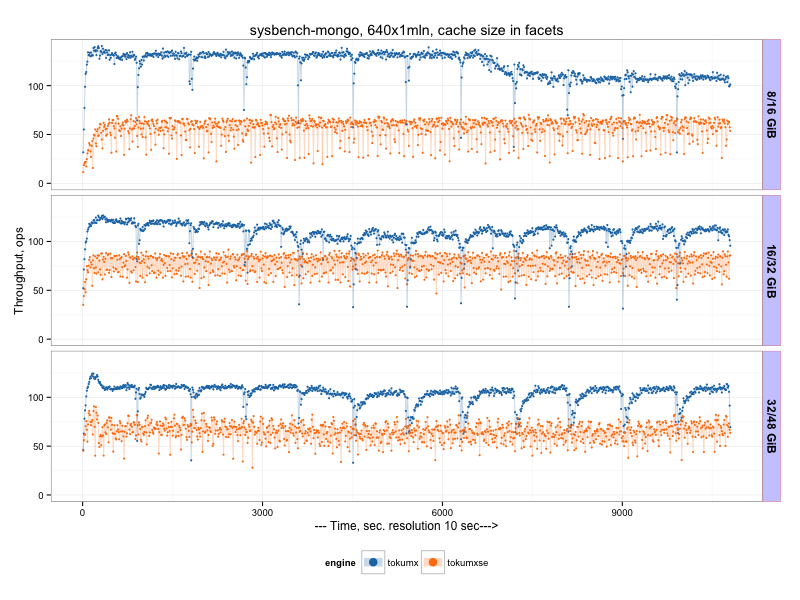
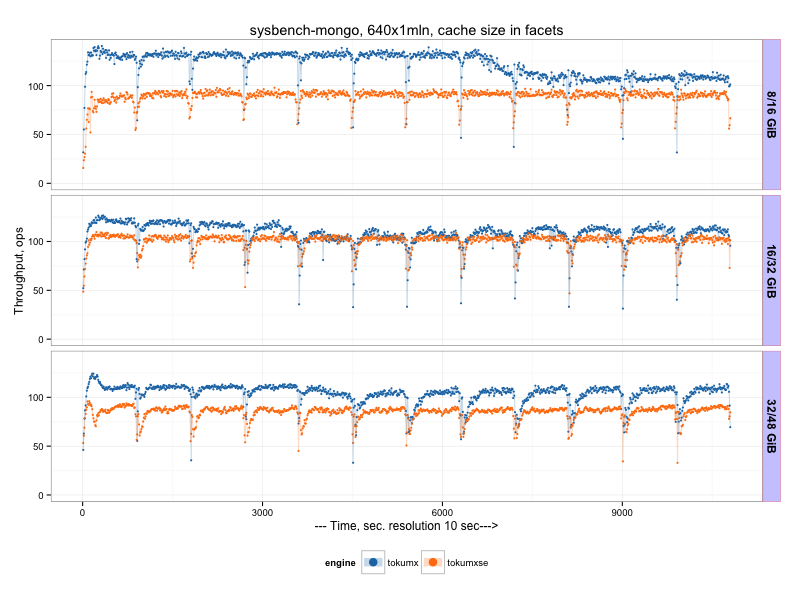
updated res with checkpoint 900

Changed region(s): [[0.0938, 0.15, 0.9375, 0.3], [0.0938, 0.39, 0.9375, 0.48], [0.0938, 0.66, 0.9375, 0.75]]

diff --git a/mongodb-sysbench-hppro2.rst b/mongodb-sysbench-hppro2.rst
@@ -63,6 +63,29 @@ size   mmap wiredTiger
 32/48  35   67
 =====  ==== ==========
 
+WiredTiger checkpoint period
+============================
+
+On previous chart we see a lot of variance in wiredTiger results. My guess was it is related to checkpointing activity,
+which by default happens every 60. It took some research to find a way to change a checkpoint period for wiredTiger,
+apparenly the variable ``--syncdelay`` is responsible for that.
+So there is results with longer (900sec) checkpoint interval for wiredTiger
+
+.. image:: img/wt-ckp900.png
+
+Or average results (throughput, operations per second) during 2nd hour:
+
+=====  ==== ========== ==============================
+size   mmap wiredTiger wiredTiger (checkpoint 900sec)
+=====  ==== ========== ==============================
+8/16   26   53         58
+16/32  31   61         67
+32/48  35   67         72
+=====  ==== ========== ==============================
+
+So we can make a conclusion that increasing checkpoint interval makes some improvement in the variance, and the overall result is better (though dips in thoughput is worse during checkpoint activity).
+I will use the last result (wich checkpoint period 900) in the following tables.
+
 RocksDB vs WiredTiger
 =====================
 
@@ -79,9 +102,9 @@ Or average results (throughput, operations per second) during 2nd hour:
 =====  ==== ========== ========
 size   mmap wiredTiger RocksDB
 =====  ==== ========== ========
-8/16   26   53         81
-16/32  31   61         91
-32/48  35   67         104 
+8/16   26   58         81
+16/32  31   67         91
+32/48  35   72         104 
 =====  ==== ========== ========
 
 TokuMX vs WiredTiger
@@ -107,9 +130,9 @@ Or average results (throughput, operations per second):
 =====  ==== ========== ======== =========
 size   mmap wiredTiger RocksDB  TokuMX
 =====  ==== ========== ======== =========
-8/16   26   53         81       106
-16/32  31   61         91       107
-32/48  35   67         104      102
+8/16   26   58         81       107
+16/32  31   67         91       107
+32/48  35   72         104      102
 =====  ==== ========== ======== =========
 
 TokuMXse vs TokuMX
@@ -119,7 +142,7 @@ In the last comparison I test TokuMXse RC6 (storage engine based on TokuFT for M
 
 TokuMXse command line
 	
-	``$MONGODIR/mongod --dbpath=$DATADIR --storageEngine=tokuft --tokuftCollectionReadPageSize=16384 --tokuftCollectionCompression=quicklz --tokuftCollectionFanout=128 --tokuftIndexReadPageSize=16384 --tokuftIndexCompression=quicklz --tokuftIndexFanout=128 --tokuftEngineCacheSize=X``	
+	``$MONGODIR/mongod --dbpath=$DATADIR --storageEngine=tokuft --tokuftCollectionReadPageSize=16384 --tokuftCollectionCompression=quicklz --tokuftCollectionFanout=128 --tokuftIndexReadPageSize=16384 --tokuftIndexCompression=quicklz --tokuftIndexFanout=128 --tokuftEngineCacheSize=X --syncdelay=900``	
 	
 .. image:: img/tokumxse.png
 
@@ -130,9 +153,9 @@ Or average results (throughput, operations per second):
 =====  ==== ========== ======== ========= ========
 size   mmap wiredTiger RocksDB  TokuMX    TokuMXse
 =====  ==== ========== ======== ========= ========
-8/16   26   53         81       106       57
-16/32  31   61         91       107       76
-32/48  35   67         104      102       63
+8/16   26   58         81       107       89
+16/32  31   67         91       107       100
+32/48  35   72         104      102       84
 =====  ==== ========== ======== ========= ========
 
 
@@ -150,8 +173,6 @@ As all engines show different throughput, I normalize IO reads and writes per op
 
 It is naturally to expect that reads per operation should go down with bigger cachesize, and most engines perform this way (beside TokuMX and TokuMXse).
 In writes area RocksDB is absolute winner, it is almost magical how little writes per operation it performs.
-
-
 
 
 
